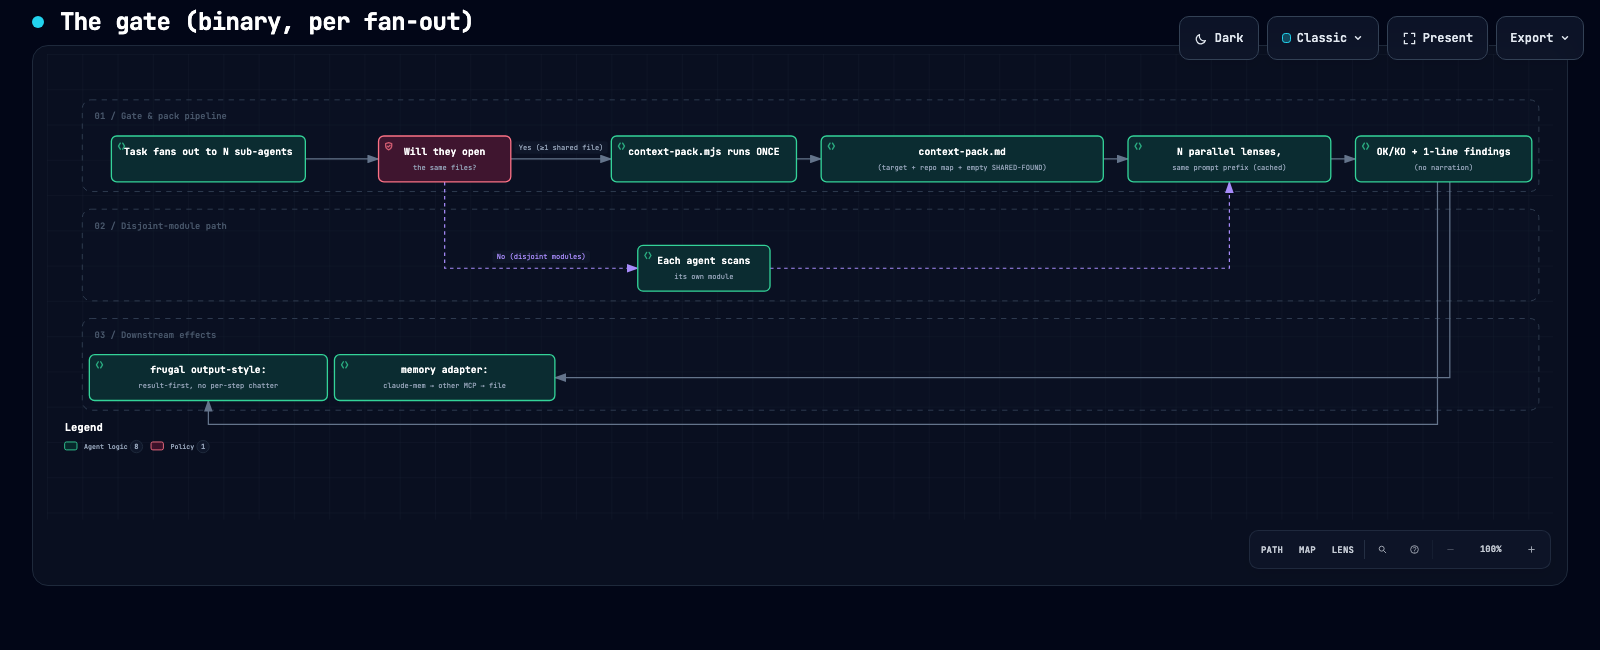
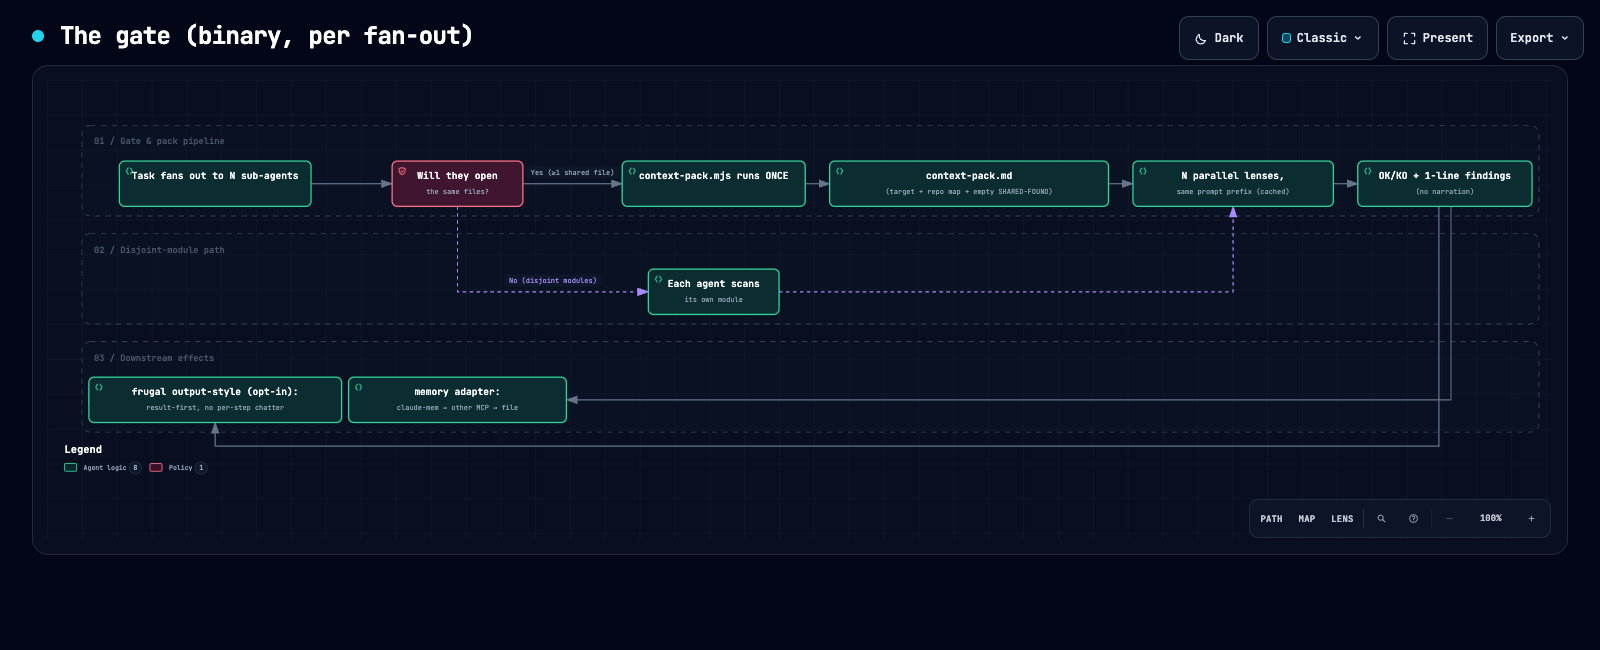
fix: make frugal opt-in and tighten skill/plugin metadata (v0.1.4)
- frugal output-style: drop force-for-plugin; users pick it with /output-style
  or /config, so it no longer overrides outputStyle or loads into every session
- SKILL.md: ~310-char third-person description; invocation detail moved to the
  body; benchmark numbers replaced by a pointer to README
- readonly-lens: add a "Use when" trigger phrase
- marketplace.json: drop the catalog-level version that could drift from plugin.json
- READMEs: install as token-economy@token-economy; proof paragraph attributes
  the PreToolUse hook to forge-methodology and states the BASELINE condition
- gate diagrams: mark frugal as opt-in (re-rendered html + png)
- evals/evals.json: gate YES, gate NO, second pass, single-agent no-trigger

diff --git a/docs/diagrams/gate-en.html b/docs/diagrams/gate-en.html
@@ -5130,7 +5130,7 @@ OTHER DEALINGS IN THE FONT SOFTWARE.
     <!-- Main Diagram -->
     <div class="diagram-container" data-detail-level="read"
          data-preset-badge-editorial-plate="ARCHIFY / PLATE 04">
-      <svg viewBox="0 0 1708 528" role="img" lang="en" aria-labelledby="archify-diagram-title archify-diagram-description" data-preset="classic" data-quality-profile="standard">
+      <svg viewBox="0 0 1728 528" role="img" lang="en" aria-labelledby="archify-diagram-title archify-diagram-description" data-preset="classic" data-quality-profile="standard">
         <title id="archify-diagram-title">The gate (binary, per fan-out)</title>
         <desc id="archify-diagram-description">A workflow diagram generated by Archify.</desc>
         <!-- Definitions -->
@@ -5156,13 +5156,13 @@ OTHER DEALINGS IN THE FONT SOFTWARE.
         <rect width="100%" height="100%" fill="url(#grid)" />
 
         <!-- Swimlanes -->
-        <rect data-graph-role="structural-frame" data-composition-frame-kind="lane" data-composition-frame-id="lane-0" x="40" y="52" width="1652" height="104" rx="10" class="c-lane" stroke-width="1"/>
+        <rect data-graph-role="structural-frame" data-composition-frame-kind="lane" data-composition-frame-id="lane-0" x="40" y="52" width="1672" height="104" rx="10" class="c-lane" stroke-width="1"/>
         <text x="54" y="74" class="t-dim" font-size="10" font-weight="600">01 / Gate &amp; pack pipeline</text>
 
-        <rect data-graph-role="structural-frame" data-composition-frame-kind="lane" data-composition-frame-id="lane-1" x="40" y="176" width="1652" height="104" rx="10" class="c-lane" stroke-width="1"/>
+        <rect data-graph-role="structural-frame" data-composition-frame-kind="lane" data-composition-frame-id="lane-1" x="40" y="176" width="1672" height="104" rx="10" class="c-lane" stroke-width="1"/>
         <text x="54" y="198" class="t-dim" font-size="10" font-weight="600">02 / Disjoint-module path</text>
 
-        <rect data-graph-role="structural-frame" data-composition-frame-kind="lane" data-composition-frame-id="lane-2" x="40" y="300" width="1652" height="104" rx="10" class="c-lane" stroke-width="1"/>
+        <rect data-graph-role="structural-frame" data-composition-frame-kind="lane" data-composition-frame-id="lane-2" x="40" y="300" width="1672" height="104" rx="10" class="c-lane" stroke-width="1"/>
         <text x="54" y="322" class="t-dim" font-size="10" font-weight="600">03 / Downstream effects</text>
 
         <!-- Phase headers -->
@@ -5172,124 +5172,124 @@ OTHER DEALINGS IN THE FONT SOFTWARE.
 
 
         <!-- Edge paths -->
-        <path data-edge-from="A" data-edge-to="B" data-edge-key="0" data-composition-points="293,119;376,119" d="M 293 119 L 376 119" class="a-default" stroke-width="1.4" marker-end="url(#arrowhead)"/>
-        <path data-edge-from="B" data-edge-to="C" data-edge-label="No (disjoint modules)" data-edge-key="1" data-composition-points="451,145;451,243;670,243" d="M 451 145 L 451 243 L 670 243" class="a-dashed" stroke-width="1.4" marker-end="url(#arrowhead-dashed)"/>
-        <path data-edge-from="B" data-edge-to="D" data-edge-label="Yes (≥1 shared file)" data-edge-key="2" data-composition-points="526,119;640,119" d="M 526 119 L 640 119" class="a-default" stroke-width="1.4" marker-end="url(#arrowhead)"/>
-        <path data-edge-from="C" data-edge-to="F" data-edge-key="3" data-composition-points="820,243;1341,243;1341,145" d="M 820 243 L 1341 243 L 1341 145" class="a-dashed" stroke-width="1.4" marker-end="url(#arrowhead-dashed)"/>
-        <path data-edge-from="D" data-edge-to="E" data-edge-key="4" data-composition-points="850,119;878,119" d="M 850 119 L 878 119" class="a-default" stroke-width="1.4" marker-end="url(#arrowhead)"/>
-        <path data-edge-from="E" data-edge-to="F" data-edge-key="5" data-composition-points="1198,119;1226,119" d="M 1198 119 L 1226 119" class="a-default" stroke-width="1.4" marker-end="url(#arrowhead)"/>
-        <path data-edge-from="F" data-edge-to="G" data-edge-key="6" data-composition-points="1456,119;1484,119" d="M 1456 119 L 1484 119" class="a-default" stroke-width="1.4" marker-end="url(#arrowhead)"/>
-        <path data-edge-from="G" data-edge-to="H" data-edge-key="7" data-composition-points="1577,145;1577,420;183,420;183,393" d="M 1577 145 L 1577 420 L 183 420 L 183 393" class="a-default" stroke-width="1.4" marker-end="url(#arrowhead)"/>
-        <path data-edge-from="G" data-edge-to="I" data-edge-key="8" data-composition-points="1591,145;1591,367;576,367" d="M 1591 145 L 1591 367 L 576 367" class="a-default" stroke-width="1.4" marker-end="url(#arrowhead)"/>
+        <path data-edge-from="A" data-edge-to="B" data-edge-key="0" data-composition-points="303,119;396,119" d="M 303 119 L 396 119" class="a-default" stroke-width="1.4" marker-end="url(#arrowhead)"/>
+        <path data-edge-from="B" data-edge-to="C" data-edge-label="No (disjoint modules)" data-edge-key="1" data-composition-points="471,145;471,243;690,243" d="M 471 145 L 471 243 L 690 243" class="a-dashed" stroke-width="1.4" marker-end="url(#arrowhead-dashed)"/>
+        <path data-edge-from="B" data-edge-to="D" data-edge-label="Yes (≥1 shared file)" data-edge-key="2" data-composition-points="546,119;660,119" d="M 546 119 L 660 119" class="a-default" stroke-width="1.4" marker-end="url(#arrowhead)"/>
+        <path data-edge-from="C" data-edge-to="F" data-edge-key="3" data-composition-points="840,243;1361,243;1361,145" d="M 840 243 L 1361 243 L 1361 145" class="a-dashed" stroke-width="1.4" marker-end="url(#arrowhead-dashed)"/>
+        <path data-edge-from="D" data-edge-to="E" data-edge-key="4" data-composition-points="870,119;898,119" d="M 870 119 L 898 119" class="a-default" stroke-width="1.4" marker-end="url(#arrowhead)"/>
+        <path data-edge-from="E" data-edge-to="F" data-edge-key="5" data-composition-points="1218,119;1246,119" d="M 1218 119 L 1246 119" class="a-default" stroke-width="1.4" marker-end="url(#arrowhead)"/>
+        <path data-edge-from="F" data-edge-to="G" data-edge-key="6" data-composition-points="1476,119;1504,119" d="M 1476 119 L 1504 119" class="a-default" stroke-width="1.4" marker-end="url(#arrowhead)"/>
+        <path data-edge-from="G" data-edge-to="H" data-edge-key="7" data-composition-points="1597,145;1597,420;193,420;193,393" d="M 1597 145 L 1597 420 L 193 420 L 193 393" class="a-default" stroke-width="1.4" marker-end="url(#arrowhead)"/>
+        <path data-edge-from="G" data-edge-to="I" data-edge-key="8" data-composition-points="1611,145;1611,367;596,367" d="M 1611 145 L 1611 367 L 596 367" class="a-default" stroke-width="1.4" marker-end="url(#arrowhead)"/>
 
         <!-- Nodes -->
         <g id="node-A" data-node-id="A" data-node-label="Task fans out to N sub-agents" tabindex="0" role="button" aria-label="Focus Task fans out to N sub-agents, Gate &amp; pack pipeline" aria-pressed="false" data-node-kind="backend" data-node-context="Gate &amp; pack pipeline">
           <title>Task fans out to N sub-agents · Gate &amp; pack pipeline</title>
-          <rect x="73" y="93" width="220" height="52" rx="6" class="c-mask"/>
-          <rect x="73" y="93" width="220" height="52" rx="6" class="c-backend" stroke-width="1.5"/>
-          <g aria-hidden="true" data-semantic-sigil="backend" class="semantic-sigil s-backend" transform="translate(79 99) scale(0.6875)">
+          <rect x="83" y="93" width="220" height="52" rx="6" class="c-mask"/>
+          <rect x="83" y="93" width="220" height="52" rx="6" class="c-backend" stroke-width="1.5"/>
+          <g aria-hidden="true" data-semantic-sigil="backend" class="semantic-sigil s-backend" transform="translate(89 99) scale(0.6875)">
             <path d="M6 3 3 8l3 5M10 3l3 5-3 5"/>
           </g>
-          <text data-node-label="" x="183" y="114" class="t-primary" font-size="11" font-weight="600" text-anchor="middle">Task fans out to N sub-agents</text>
+          <text data-node-label="" x="193" y="114" class="t-primary" font-size="11" font-weight="600" text-anchor="middle">Task fans out to N sub-agents</text>
         </g>
 
         <g id="node-B" data-node-id="B" data-node-label="Will they open" tabindex="0" role="button" aria-label="Focus Will they open, the same files?, Gate &amp; pack pipeline" aria-pressed="false" data-node-kind="security" data-node-sublabel="the same files?" data-node-context="Gate &amp; pack pipeline">
           <title>Will they open · the same files? · Gate &amp; pack pipeline</title>
-          <rect x="376" y="93" width="150" height="52" rx="6" class="c-mask"/>
-          <rect x="376" y="93" width="150" height="52" rx="6" class="c-security" stroke-width="1.5"/>
-          <g aria-hidden="true" data-semantic-sigil="security" class="semantic-sigil s-security" transform="translate(382 99) scale(0.6875)">
+          <rect x="396" y="93" width="150" height="52" rx="6" class="c-mask"/>
+          <rect x="396" y="93" width="150" height="52" rx="6" class="c-security" stroke-width="1.5"/>
+          <g aria-hidden="true" data-semantic-sigil="security" class="semantic-sigil s-security" transform="translate(402 99) scale(0.6875)">
             <path d="M8 2.2 13 4v3.5c0 3.1-1.8 5.4-5 6.5-3.2-1.1-5-3.4-5-6.5V4Z"/>
             <path d="m5.8 8 1.5 1.5 3-3"/>
           </g>
-          <text data-node-label="" data-detail-anchor="" x="451" y="114" class="t-primary" font-size="11" font-weight="600" text-anchor="middle">Will they open</text>
-          <text data-detail="context" x="451" y="131" class="t-muted" font-size="8" text-anchor="middle">the same files?</text>
+          <text data-node-label="" data-detail-anchor="" x="471" y="114" class="t-primary" font-size="11" font-weight="600" text-anchor="middle">Will they open</text>
+          <text data-detail="context" x="471" y="131" class="t-muted" font-size="8" text-anchor="middle">the same files?</text>
         </g>
 
         <g id="node-D" data-node-id="D" data-node-label="context-pack.mjs runs ONCE" tabindex="0" role="button" aria-label="Focus context-pack.mjs runs ONCE, Gate &amp; pack pipeline" aria-pressed="false" data-node-kind="backend" data-node-context="Gate &amp; pack pipeline">
           <title>context-pack.mjs runs ONCE · Gate &amp; pack pipeline</title>
-          <rect x="640" y="93" width="210" height="52" rx="6" class="c-mask"/>
-          <rect x="640" y="93" width="210" height="52" rx="6" class="c-backend" stroke-width="1.5"/>
-          <g aria-hidden="true" data-semantic-sigil="backend" class="semantic-sigil s-backend" transform="translate(646 99) scale(0.6875)">
+          <rect x="660" y="93" width="210" height="52" rx="6" class="c-mask"/>
+          <rect x="660" y="93" width="210" height="52" rx="6" class="c-backend" stroke-width="1.5"/>
+          <g aria-hidden="true" data-semantic-sigil="backend" class="semantic-sigil s-backend" transform="translate(666 99) scale(0.6875)">
             <path d="M6 3 3 8l3 5M10 3l3 5-3 5"/>
           </g>
-          <text data-node-label="" x="745" y="114" class="t-primary" font-size="11" font-weight="600" text-anchor="middle">context-pack.mjs runs ONCE</text>
+          <text data-node-label="" x="765" y="114" class="t-primary" font-size="11" font-weight="600" text-anchor="middle">context-pack.mjs runs ONCE</text>
         </g>
 
         <g id="node-E" data-node-id="E" data-node-label="context-pack.md" tabindex="0" role="button" aria-label="Focus context-pack.md, (target + repo map + empty SHARED-FOUND), Gate &amp; pack pipeline" aria-pressed="false" data-node-kind="backend" data-node-sublabel="(target + repo map + empty SHARED-FOUND)" data-node-context="Gate &amp; pack pipeline">
           <title>context-pack.md · (target + repo map + empty SHARED-FOUND) · Gate &amp; pack pipeline</title>
-          <rect x="878" y="93" width="320" height="52" rx="6" class="c-mask"/>
-          <rect x="878" y="93" width="320" height="52" rx="6" class="c-backend" stroke-width="1.5"/>
-          <g aria-hidden="true" data-semantic-sigil="backend" class="semantic-sigil s-backend" transform="translate(884 99) scale(0.6875)">
+          <rect x="898" y="93" width="320" height="52" rx="6" class="c-mask"/>
+          <rect x="898" y="93" width="320" height="52" rx="6" class="c-backend" stroke-width="1.5"/>
+          <g aria-hidden="true" data-semantic-sigil="backend" class="semantic-sigil s-backend" transform="translate(904 99) scale(0.6875)">
             <path d="M6 3 3 8l3 5M10 3l3 5-3 5"/>
           </g>
-          <text data-node-label="" data-detail-anchor="" x="1038" y="114" class="t-primary" font-size="11" font-weight="600" text-anchor="middle">context-pack.md</text>
-          <text data-detail="context" x="1038" y="131" class="t-muted" font-size="8" text-anchor="middle">(target + repo map + empty SHARED-FOUND)</text>
+          <text data-node-label="" data-detail-anchor="" x="1058" y="114" class="t-primary" font-size="11" font-weight="600" text-anchor="middle">context-pack.md</text>
+          <text data-detail="context" x="1058" y="131" class="t-muted" font-size="8" text-anchor="middle">(target + repo map + empty SHARED-FOUND)</text>
         </g>
 
         <g id="node-F" data-node-id="F" data-node-label="N parallel lenses," tabindex="0" role="button" aria-label="Focus N parallel lenses,, same prompt prefix (cached), Gate &amp; pack pipeline" aria-pressed="false" data-node-kind="backend" data-node-sublabel="same prompt prefix (cached)" data-node-context="Gate &amp; pack pipeline">
           <title>N parallel lenses, · same prompt prefix (cached) · Gate &amp; pack pipeline</title>
-          <rect x="1226" y="93" width="230" height="52" rx="6" class="c-mask"/>
-          <rect x="1226" y="93" width="230" height="52" rx="6" class="c-backend" stroke-width="1.5"/>
-          <g aria-hidden="true" data-semantic-sigil="backend" class="semantic-sigil s-backend" transform="translate(1232 99) scale(0.6875)">
+          <rect x="1246" y="93" width="230" height="52" rx="6" class="c-mask"/>
+          <rect x="1246" y="93" width="230" height="52" rx="6" class="c-backend" stroke-width="1.5"/>
+          <g aria-hidden="true" data-semantic-sigil="backend" class="semantic-sigil s-backend" transform="translate(1252 99) scale(0.6875)">
             <path d="M6 3 3 8l3 5M10 3l3 5-3 5"/>
           </g>
-          <text data-node-label="" data-detail-anchor="" x="1341" y="114" class="t-primary" font-size="11" font-weight="600" text-anchor="middle">N parallel lenses,</text>
-          <text data-detail="context" x="1341" y="131" class="t-muted" font-size="8" text-anchor="middle">same prompt prefix (cached)</text>
+          <text data-node-label="" data-detail-anchor="" x="1361" y="114" class="t-primary" font-size="11" font-weight="600" text-anchor="middle">N parallel lenses,</text>
+          <text data-detail="context" x="1361" y="131" class="t-muted" font-size="8" text-anchor="middle">same prompt prefix (cached)</text>
         </g>
 
         <g id="node-G" data-node-id="G" data-node-label="OK/KO + 1-line findings" tabindex="0" role="button" aria-label="Focus OK/KO + 1-line findings, (no narration), Gate &amp; pack pipeline" aria-pressed="false" data-node-kind="backend" data-node-sublabel="(no narration)" data-node-context="Gate &amp; pack pipeline">
           <title>OK/KO + 1-line findings · (no narration) · Gate &amp; pack pipeline</title>
-          <rect x="1484" y="93" width="200" height="52" rx="6" class="c-mask"/>
-          <rect x="1484" y="93" width="200" height="52" rx="6" class="c-backend" stroke-width="1.5"/>
-          <g aria-hidden="true" data-semantic-sigil="backend" class="semantic-sigil s-backend" transform="translate(1490 99) scale(0.6875)">
+          <rect x="1504" y="93" width="200" height="52" rx="6" class="c-mask"/>
+          <rect x="1504" y="93" width="200" height="52" rx="6" class="c-backend" stroke-width="1.5"/>
+          <g aria-hidden="true" data-semantic-sigil="backend" class="semantic-sigil s-backend" transform="translate(1510 99) scale(0.6875)">
             <path d="M6 3 3 8l3 5M10 3l3 5-3 5"/>
           </g>
-          <text data-node-label="" data-detail-anchor="" x="1584" y="114" class="t-primary" font-size="11" font-weight="600" text-anchor="middle">OK/KO + 1-line findings</text>
-          <text data-detail="context" x="1584" y="131" class="t-muted" font-size="8" text-anchor="middle">(no narration)</text>
+          <text data-node-label="" data-detail-anchor="" x="1604" y="114" class="t-primary" font-size="11" font-weight="600" text-anchor="middle">OK/KO + 1-line findings</text>
+          <text data-detail="context" x="1604" y="131" class="t-muted" font-size="8" text-anchor="middle">(no narration)</text>
         </g>
 
         <g id="node-C" data-node-id="C" data-node-label="Each agent scans" tabindex="0" role="button" aria-label="Focus Each agent scans, its own module, Disjoint-module path" aria-pressed="false" data-node-kind="backend" data-node-sublabel="its own module" data-node-context="Disjoint-module path">
           <title>Each agent scans · its own module · Disjoint-module path</title>
-          <rect x="670" y="217" width="150" height="52" rx="6" class="c-mask"/>
-          <rect x="670" y="217" width="150" height="52" rx="6" class="c-backend" stroke-width="1.5"/>
-          <g aria-hidden="true" data-semantic-sigil="backend" class="semantic-sigil s-backend" transform="translate(676 223) scale(0.6875)">
+          <rect x="690" y="217" width="150" height="52" rx="6" class="c-mask"/>
+          <rect x="690" y="217" width="150" height="52" rx="6" class="c-backend" stroke-width="1.5"/>
+          <g aria-hidden="true" data-semantic-sigil="backend" class="semantic-sigil s-backend" transform="translate(696 223) scale(0.6875)">
             <path d="M6 3 3 8l3 5M10 3l3 5-3 5"/>
           </g>
-          <text data-node-label="" data-detail-anchor="" x="745" y="238" class="t-primary" font-size="11" font-weight="600" text-anchor="middle">Each agent scans</text>
-          <text data-detail="context" x="745" y="255" class="t-muted" font-size="8" text-anchor="middle">its own module</text>
+          <text data-node-label="" data-detail-anchor="" x="765" y="238" class="t-primary" font-size="11" font-weight="600" text-anchor="middle">Each agent scans</text>
+          <text data-detail="context" x="765" y="255" class="t-muted" font-size="8" text-anchor="middle">its own module</text>
         </g>
 
-        <g id="node-H" data-node-id="H" data-node-label="frugal output-style:" tabindex="0" role="button" aria-label="Focus frugal output-style:, result-first, no per-step chatter, Downstream effects" aria-pressed="false" data-node-kind="backend" data-node-sublabel="result-first, no per-step chatter" data-node-context="Downstream effects">
-          <title>frugal output-style: · result-first, no per-step chatter · Downstream effects</title>
-          <rect x="48" y="341" width="270" height="52" rx="6" class="c-mask"/>
-          <rect x="48" y="341" width="270" height="52" rx="6" class="c-backend" stroke-width="1.5"/>
+        <g id="node-H" data-node-id="H" data-node-label="frugal output-style (opt-in):" tabindex="0" role="button" aria-label="Focus frugal output-style (opt-in):, result-first, no per-step chatter, Downstream effects" aria-pressed="false" data-node-kind="backend" data-node-sublabel="result-first, no per-step chatter" data-node-context="Downstream effects">
+          <title>frugal output-style (opt-in): · result-first, no per-step chatter · Downstream effects</title>
+          <rect x="48" y="341" width="290" height="52" rx="6" class="c-mask"/>
+          <rect x="48" y="341" width="290" height="52" rx="6" class="c-backend" stroke-width="1.5"/>
           <g aria-hidden="true" data-semantic-sigil="backend" class="semantic-sigil s-backend" transform="translate(54 347) scale(0.6875)">
             <path d="M6 3 3 8l3 5M10 3l3 5-3 5"/>
           </g>
-          <text data-node-label="" data-detail-anchor="" x="183" y="362" class="t-primary" font-size="11" font-weight="600" text-anchor="middle">frugal output-style:</text>
-          <text data-detail="context" x="183" y="379" class="t-muted" font-size="8" text-anchor="middle">result-first, no per-step chatter</text>
+          <text data-node-label="" data-detail-anchor="" x="193" y="362" class="t-primary" font-size="11" font-weight="600" text-anchor="middle">frugal output-style (opt-in):</text>
+          <text data-detail="context" x="193" y="379" class="t-muted" font-size="8" text-anchor="middle">result-first, no per-step chatter</text>
         </g>
 
         <g id="node-I" data-node-id="I" data-node-label="memory adapter:" tabindex="0" role="button" aria-label="Focus memory adapter:, claude-mem → other MCP → file, Downstream effects" aria-pressed="false" data-node-kind="backend" data-node-sublabel="claude-mem → other MCP → file" data-node-context="Downstream effects">
           <title>memory adapter: · claude-mem → other MCP → file · Downstream effects</title>
-          <rect x="326" y="341" width="250" height="52" rx="6" class="c-mask"/>
-          <rect x="326" y="341" width="250" height="52" rx="6" class="c-backend" stroke-width="1.5"/>
-          <g aria-hidden="true" data-semantic-sigil="backend" class="semantic-sigil s-backend" transform="translate(332 347) scale(0.6875)">
+          <rect x="346" y="341" width="250" height="52" rx="6" class="c-mask"/>
+          <rect x="346" y="341" width="250" height="52" rx="6" class="c-backend" stroke-width="1.5"/>
+          <g aria-hidden="true" data-semantic-sigil="backend" class="semantic-sigil s-backend" transform="translate(352 347) scale(0.6875)">
             <path d="M6 3 3 8l3 5M10 3l3 5-3 5"/>
           </g>
-          <text data-node-label="" data-detail-anchor="" x="451" y="362" class="t-primary" font-size="11" font-weight="600" text-anchor="middle">memory adapter:</text>
-          <text data-detail="context" x="451" y="379" class="t-muted" font-size="8" text-anchor="middle">claude-mem → other MCP → file</text>
+          <text data-node-label="" data-detail-anchor="" x="471" y="362" class="t-primary" font-size="11" font-weight="600" text-anchor="middle">memory adapter:</text>
+          <text data-detail="context" x="471" y="379" class="t-muted" font-size="8" text-anchor="middle">claude-mem → other MCP → file</text>
         </g>
 
         <!-- Edge labels -->
 
         <g data-detail="context" data-edge-from="B" data-edge-to="C" data-edge-label="No (disjoint modules)" data-edge-key="1">
-          <rect x="505.1" y="223" width="110.8" height="14" rx="3" class="c-mask"/>
-          <text x="560.5" y="233" class="t-database" font-size="8" text-anchor="middle">No (disjoint modules)</text>
+          <rect x="525.1" y="223" width="110.8" height="14" rx="3" class="c-mask"/>
+          <text x="580.5" y="233" class="t-database" font-size="8" text-anchor="middle">No (disjoint modules)</text>
         </g>
         <g data-detail="context" data-edge-from="B" data-edge-to="D" data-edge-label="Yes (≥1 shared file)" data-edge-key="2">
-          <rect x="530" y="99" width="106" height="14" rx="3" class="c-mask"/>
-          <text x="583" y="109" class="t-muted" font-size="8" text-anchor="middle">Yes (≥1 shared file)</text>
+          <rect x="550" y="99" width="106" height="14" rx="3" class="c-mask"/>
+          <text x="603" y="109" class="t-muted" font-size="8" text-anchor="middle">Yes (≥1 shared file)</text>
         </g>
 
 

diff --git a/docs/diagrams/gate-es.html b/docs/diagrams/gate-es.html
@@ -5259,14 +5259,14 @@ OTHER DEALINGS IN THE FONT SOFTWARE.
           <text data-detail="context" x="759" y="255" class="t-muted" font-size="8" text-anchor="middle">su propio módulo</text>
         </g>
 
-        <g id="node-H" data-node-id="H" data-node-label="output-style frugal:" tabindex="0" role="button" aria-label="Focus output-style frugal:, resultado primero, sin cháchara paso a paso, Efectos aguas abajo" aria-pressed="false" data-node-kind="backend" data-node-sublabel="resultado primero, sin cháchara paso a paso" data-node-context="Efectos aguas abajo">
-          <title>output-style frugal: · resultado primero, sin cháchara paso a paso · Efectos aguas abajo</title>
+        <g id="node-H" data-node-id="H" data-node-label="output-style frugal (opt-in):" tabindex="0" role="button" aria-label="Focus output-style frugal (opt-in):, resultado primero, sin cháchara paso a paso, Efectos aguas abajo" aria-pressed="false" data-node-kind="backend" data-node-sublabel="resultado primero, sin cháchara paso a paso" data-node-context="Efectos aguas abajo">
+          <title>output-style frugal (opt-in): · resultado primero, sin cháchara paso a paso · Efectos aguas abajo</title>
           <rect x="48" y="341" width="330" height="52" rx="6" class="c-mask"/>
           <rect x="48" y="341" width="330" height="52" rx="6" class="c-backend" stroke-width="1.5"/>
           <g aria-hidden="true" data-semantic-sigil="backend" class="semantic-sigil s-backend" transform="translate(54 347) scale(0.6875)">
             <path d="M6 3 3 8l3 5M10 3l3 5-3 5"/>
           </g>
-          <text data-node-label="" data-detail-anchor="" x="213" y="362" class="t-primary" font-size="11" font-weight="600" text-anchor="middle">output-style frugal:</text>
+          <text data-node-label="" data-detail-anchor="" x="213" y="362" class="t-primary" font-size="11" font-weight="600" text-anchor="middle">output-style frugal (opt-in):</text>
           <text data-detail="context" x="213" y="379" class="t-muted" font-size="8" text-anchor="middle">resultado primero, sin cháchara paso a paso</text>
         </g>
 

diff --git a/README.md b/README.md
@@ -15,7 +15,7 @@ When a task fans out several sub-agents (a code review, an audit, a migration), 
 | **skill** (`SKILL.md`) | The orchestration doctrine: a binary context-pack gate + 7 levers (discover-once, terse output, prompt-cache prefix, frugal main thread, read-only + mutate-in-one-pass, pluggable memory, cap + cache). | Auto-triggers when you ask Claude for multi-agent work (review / audit / migrate / fan-out). Claude applies the levers itself — you never run anything. |
 | **context-pack script** (`scripts/context-pack.mjs`) | Deterministic single scan (no `Date.now`/`Math.random` → byte-stable, cacheable) → `<repo-root>/.token-economy/context-pack.md`: target content + repo map (file:line anchors and keyword precedents) + empty `SHARED-FOUND`. `--json` / `--json-out` emit the same data as JSON for tooling. Targets longer than `--max-target-lines` (default 400) embed a line-numbered **outline** instead of full content, so N agents don't each pay for a huge target. | Claude runs it via its Bash tool: `node "${CLAUDE_PLUGIN_ROOT}/scripts/context-pack.mjs" <target>` |
 | **read-only lens agent** (`agents/readonly-lens.md`) | Analysis lens with `tools: ["Read","Grep","Glob"]` — no Edit/Write/Bash, so read-only is enforced by construction. Output contract: `OK`/`KO` + one line per finding (`KO <file>:<line> <problem> → <fix>`), no narration, no re-reporting `SHARED-FOUND`. | Agent tool as `token-economy:readonly-lens` (the invocation prompt names the lens and its checks). |
-| **frugal output-style** (`output-styles/frugal.md`) | Main-thread output discipline: lead with the result, one tight summary, no per-step narration or filler. `keep-coding-instructions: true` — tone only, never coding ability. | Applies automatically (`force-for-plugin: true`). Off-switch: disable the plugin (see Install). |
+| **frugal output-style** (`output-styles/frugal.md`) | Main-thread output discipline: lead with the result, one tight summary, no per-step narration or filler. `keep-coding-instructions: true` — tone only, never coding ability. | Opt-in: `/output-style` (or `/config` → Output style) and pick `frugal`. Off: switch back to your previous style — the skill and agent stay enabled. |
 | **memory adapter** (`references/memory-adapter.md`) | Pluggable search-before / write-after memory, orchestrator-owned (one writer, no races). Backends in preference order: **claude-mem** → other MCP → file (`.token-economy/memory.md`). | Claude consults it when persisting findings across runs. |
 | **tests** (`tests/context-pack.test.sh`) | 12-case harness for the script: JSON shape/determinism, flags-anywhere, outline cap, stale-json cleanup rules, `--root` composition. T1 (byte-identity vs a baseline) needs `BASELINE=` set. | `bash tests/context-pack.test.sh` |
 
@@ -27,7 +27,7 @@ One more lever with no file of its own: **prompt-cache**. Every parallel lens is
 
 *Interactive version: docs/diagrams/gate-en.html (open locally)*
 
-`frugal` + terse output apply to all multi-agent work — always on. The **context-pack** is the one lever with a decision, and it's binary, not a vibe. Before the 2nd agent of any fan-out:
+Terse output applies to all multi-agent work (and `frugal`, once you select it). The **context-pack** is the one lever with a decision, and it's binary, not a vibe. Before the 2nd agent of any fan-out:
 
 > **Will these agents open any of the same files?**
 > **YES → context-pack MANDATORY. NO (disjoint modules) → skip it.**
@@ -50,13 +50,13 @@ Measured on a real design-review pass (Clock Admin, 4-lens diagnosis). Tokens ar
 
 **Honest caveats:** single component; the pack build is ~74k one-time (it amortizes across lenses and across runs); measured on the design-review pipeline specifically. The biggest win is **cross-run** reuse — the deterministic pack + persisted memory make a second pass on the same target nearly free.
 
-**Proof, not just a claim:** [`docs/forge/add-json-output-flag-to-context-pack-mjs/`](docs/forge/add-json-output-flag-to-context-pack-mjs/) is a complete Forge run built *on this repo, using its own `--json` feature* — spec, plan, grill verdicts, and [`verify.md`](docs/forge/add-json-output-flag-to-context-pack-mjs/verify.md): 12/12 tests passing, confirmed by an independent verifier (someone other than the executor), with the real PreToolUse hook observed blocking a `gh pr create` that had unevidenced rows and then passing once they were filled in.
+**Proof, not just a claim:** [`docs/forge/add-json-output-flag-to-context-pack-mjs/`](docs/forge/add-json-output-flag-to-context-pack-mjs/) is a complete Forge run built *on this repo, using its own `--json` feature* — spec, plan, grill verdicts, and [`verify.md`](docs/forge/add-json-output-flag-to-context-pack-mjs/verify.md): 12/12 tests passing (with `BASELINE` set; without it T1 is skipped and the run reports 11/11), confirmed by an independent verifier (someone other than the executor), with forge-methodology's PreToolUse hook (not part of this plugin) observed blocking a `gh pr create` that had unevidenced rows and then passing once they were filled in.
 
 ## 🔗 Composes with
 
 ### caveman
 
-caveman is a communication-compression **skill**, not a registered output-style — it compresses how each word is *said*; token-economy cuts how many tokens go *in* and kills narration. `frugal`'s `force-for-plugin` overrides the `outputStyle` **setting**, which caveman does not occupy, so there is **no collision**: they stack (caveman-frugal = terse pidgin + result-first + no per-step chatter). Only if someone repackaged caveman as an actual output-style would frugal override that packaging — the skill form stacks fine.
+caveman is a communication-compression **skill**, not a registered output-style — it compresses how each word is *said*; token-economy cuts how many tokens go *in* and kills narration. `frugal` occupies the `outputStyle` **setting**, which caveman does not, so there is **no collision**: they stack (caveman-frugal = terse pidgin + result-first + no per-step chatter). Only if someone repackaged caveman as an actual output-style would the two compete for that setting — the skill form stacks fine.
 
 ### claude-mem
 
@@ -68,7 +68,7 @@ Just this plugin:
 
 ```bash
 /plugin marketplace add davidgarciagordo/token-economy
-/plugin install token-economy
+/plugin install token-economy@token-economy
 ```
 
 Or the whole suite (this + design-review, forge-methodology, working-methods, automations, swarm) from [one catalog](https://github.com/davidgarciagordo/claude-plugins):
@@ -78,7 +78,7 @@ Or the whole suite (this + design-review, forge-methodology, working-methods, au
 /plugin install token-economy@davidgarciagordo-plugins
 ```
 
-Nothing else to do — the `frugal` output-style applies automatically (`force-for-plugin: true`). Because it forces itself while the plugin is enabled, the off-switch is **disabling the plugin** (`/plugin` → token-economy → disable), not `/config` — `force-for-plugin` overrides the user's outputStyle setting by design.
+The skill and the agent work right away. The `frugal` output-style is **opt-in** so it never overrides your own `outputStyle` or loads into sessions that don't want it: run `/output-style` (or `/config` → Output style) and pick `frugal`; switch back the same way.
 
 ## 🔗 Relation to forge-methodology / design-review
 

diff --git a/SKILL.md b/SKILL.md
@@ -1,6 +1,6 @@
 ---
 name: token-economy
-description: Use when orchestrating MULTI-AGENT work in Claude Code — fanning out sub-agents, a review/audit across many files, a migration/sweep, or any task where several agents would each re-scan the same code. Cuts INPUT/orchestration tokens without losing quality. The orchestrator (you, the model) applies the levers ITSELF — build a discover-once context-pack (run "${CLAUDE_PLUGIN_ROOT}/scripts/context-pack.mjs" via your Bash tool), dispatch sub-agents READ-ONLY + TERSE over that pack, mutate in one pass, use pluggable memory across runs; pair with the `frugal` output-style. The USER never runs the scripts — you do, as part of normal orchestration. Complements caveman (a communication-compression skill); they stack.
+description: Cuts input/orchestration tokens in multi-agent Claude Code work via a discover-once context-pack, read-only terse lenses, one-pass mutation and cross-run memory. Use when fanning out sub-agents, reviewing or auditing many files, or running a migration/sweep where agents would re-scan the same code.
 ---
 
 # token-economy
@@ -11,9 +11,13 @@ discipline for the main thread. Complementary; they stack.
 
 Each lever below is a real mechanism, not advice. Apply the ones the task needs.
 
+The orchestrating model applies the levers itself, as part of normal orchestration: it runs
+`"${CLAUDE_PLUGIN_ROOT}/scripts/context-pack.mjs"` through its Bash tool and dispatches the
+lenses. The user never runs the scripts.
+
 ## The gate: run this at EVERY fan-out (not once per session)
 
-`frugal` + terse output apply to all multi-agent work — always on. The **context-pack** is the
+Terse output applies to all multi-agent work (plus `frugal` when the user selected it). The **context-pack** is the
 one lever with a decision, and it's binary, not a vibe. Before the 2nd agent of any fan-out:
 
 > **Will these agents open any of the same files?**
@@ -64,6 +68,4 @@ one domain" is still same-domain → still pack.
 
 ## Benchmark
 
-Measured on a design-review pass (Clock Admin): ~2.6× per lens, ~1.8× for a full 4-lens diagnosis,
-~7× on a second pass over the same component (artifact reuse). Cross-run reuse is the biggest win.
-Detail: `README.md` → Benchmark.
+Measured savings and caveats: `README.md` → Benchmark.

diff --git a/examples/README.es.md b/examples/README.es.md
@@ -56,7 +56,7 @@ necesitan hablar entre sí. Luego, una vez elegido el enfoque, impleméntalo en 
 Añade un flag `--dry-run` a scripts/deploy.sh.
 ```
 
-**Qué se dispara:** un agente, un objetivo — el gate del context-pack trata de *varios* agentes abriendo los *mismos* ficheros, así que aquí nunca aplica. Lo único que se dispara es `frugal`, activo en cada respuesta sin importar el fan-out: la respuesta empieza por el diff, sin narración paso a paso tipo "ahora edito el fichero", una línea al final solo si hay algo que avisar.
+**Qué se dispara:** un agente, un objetivo — el gate del context-pack trata de *varios* agentes abriendo los *mismos* ficheros, así que aquí nunca aplica. Lo único que se dispara es `frugal` (si lo has seleccionado), activo en cada respuesta sin importar el fan-out: la respuesta empieza por el diff, sin narración paso a paso tipo "ahora edito el fichero", una línea al final solo si hay algo que avisar.
 
 ## 5. Una segunda pasada sobre el mismo objetivo (el mayor ahorro)
 

diff --git a/examples/README.md b/examples/README.md
@@ -56,7 +56,7 @@ each other. Then, once we've picked an approach, implement it across all three.
 Add a `--dry-run` flag to scripts/deploy.sh.
 ```
 
-**What fires:** one agent, one target — the context-pack gate is about *multiple* agents opening the *same* files, so it never applies here. The only thing that fires is `frugal`, active on every response regardless of fan-out: the reply leads with the diff, no per-step "now I'll edit the file" narration, one line at the end if anything is worth flagging.
+**What fires:** one agent, one target — the context-pack gate is about *multiple* agents opening the *same* files, so it never applies here. The only thing that fires is `frugal` (if you selected it), active on every response regardless of fan-out: the reply leads with the diff, no per-step "now I'll edit the file" narration, one line at the end if anything is worth flagging.
 
 ## 5. A second pass on the same target (the biggest win)
 

diff --git a/agents/readonly-lens.md b/agents/readonly-lens.md
@@ -1,6 +1,6 @@
 ---
 name: readonly-lens
-description: Read-only analysis lens for multi-agent diagnosis. One agent, one angle. Reads the context-pack, does NOT re-scan the repo, does NOT re-report SHARED-FOUND. Terse OK/KO output.
+description: Read-only analysis lens for multi-agent diagnosis. One agent, one angle. Reads the context-pack, does NOT re-scan the repo, does NOT re-report SHARED-FOUND. Terse OK/KO output. Use when fanning out read-only analysis lenses over a context-pack.
 tools: ["Read", "Grep", "Glob"]
 model: sonnet
 ---

diff --git a/output-styles/frugal.md b/output-styles/frugal.md
@@ -2,7 +2,6 @@
 name: frugal
 description: Output discipline for the main thread. Do the work, lead with the result, one tight summary at the end. No per-step narration, no filler. Stacks with caveman (which compresses the words; frugal cuts the count).
 keep-coding-instructions: true
-force-for-plugin: true
 ---
 
 # Frugal output style
